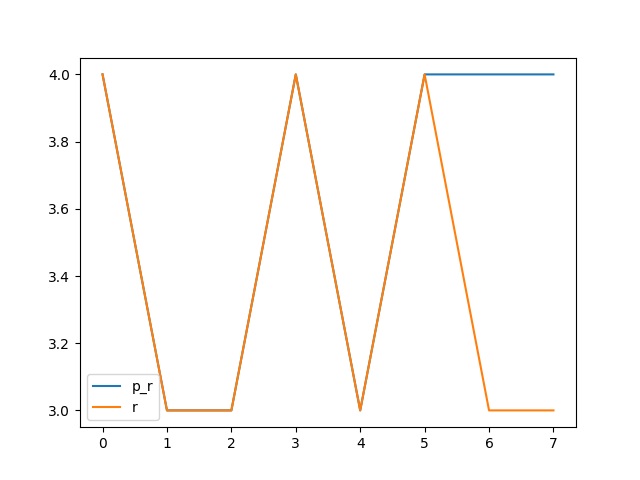
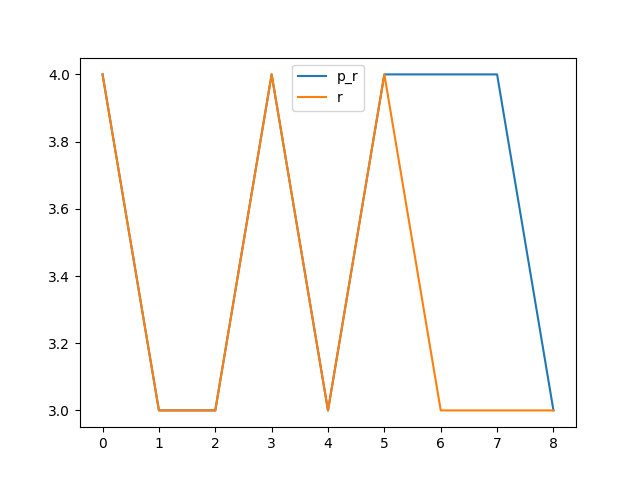
0x0008

diff --git a/benchmark.md b/benchmark.md
@@ -14,16 +14,18 @@ Synthesising 0x0006 pexact:208 r=4 exact:224 r=3
 
 Synthesising 0x0007 pexact:182 r=4 exact:192 r=3
 
+Synthesising 0x0008 pexact:152 r=3 exact:192 r=3
+
 ```mermaid
 xychart-beta
     title "Comparison powertwoexact twoexact"
-    x-axis [0, 1, 2, 3, 4, 5, 6, 7]
+    x-axis [0, 1, 2, 3, 4, 5, 6, 7, 8]
     y-axis "Switching Activity" 0-->352
-    line [96, 152, 152, 182, 152, 182, 208, 182]
-    line [192, 152, 152, 312, 152, 352, 224, 192]
-    line [163.25, 163.25, 163.25, 163.25, 163.25, 163.25, 163.25, 163.25]
-    line [216.0, 216.0, 216.0, 216.0, 216.0, 216.0, 216.0, 216.0]
-    bar [4, 3, 3, 4, 3, 4, 4, 4, 4, 3, 3, 4, 3, 4, 4, 4, 4, 3, 3, 4, 3, 4, 4, 4, 4, 3, 3, 4, 3, 4, 4, 4, 4, 3, 3, 4, 3, 4, 4, 4, 4, 3, 3, 4, 3, 4, 4, 4, 4, 3, 3, 4, 3, 4, 4, 4, 4, 3, 3, 4, 3, 4, 4, 4, 4, 3, 3, 4, 3, 4, 4, 4, 4, 3, 3, 4, 3, 4, 4, 4, 4, 3, 3, 4, 3, 4, 4, 4, 4, 3, 3, 4, 3, 4, 4, 4, 4, 3, 3, 4, 3, 4, 4, 4, 4, 3, 3, 4, 3, 4, 4, 4, 4, 3, 3, 4, 3, 4, 4, 4, 4, 3, 3, 4, 3, 4, 4, 4, 4, 3, 3, 4, 3, 4, 4, 4, 4, 3, 3, 4, 3, 4, 4, 4, 4, 3, 3, 4, 3, 4, 4, 4, 4, 3, 3, 4, 3, 4, 4, 4]
-    bar [4, 3, 3, 4, 3, 4, 3, 3, 4, 3, 3, 4, 3, 4, 3, 3, 4, 3, 3, 4, 3, 4, 3, 3, 4, 3, 3, 4, 3, 4, 3, 3, 4, 3, 3, 4, 3, 4, 3, 3, 4, 3, 3, 4, 3, 4, 3, 3, 4, 3, 3, 4, 3, 4, 3, 3, 4, 3, 3, 4, 3, 4, 3, 3, 4, 3, 3, 4, 3, 4, 3, 3, 4, 3, 3, 4, 3, 4, 3, 3, 4, 3, 3, 4, 3, 4, 3, 3, 4, 3, 3, 4, 3, 4, 3, 3, 4, 3, 3, 4, 3, 4, 3, 3, 4, 3, 3, 4, 3, 4, 3, 3, 4, 3, 3, 4, 3, 4, 3, 3, 4, 3, 3, 4, 3, 4, 3, 3, 4, 3, 3, 4, 3, 4, 3, 3, 4, 3, 3, 4, 3, 4, 3, 3, 4, 3, 3, 4, 3, 4, 3, 3, 4, 3, 3, 4, 3, 4, 3, 3]
+    line [96, 152, 152, 182, 152, 182, 208, 182, 152]
+    line [192, 152, 152, 312, 152, 352, 224, 192, 192]
+    line [162.0, 162.0, 162.0, 162.0, 162.0, 162.0, 162.0, 162.0, 162.0]
+    line [213.33333333333334, 213.33333333333334, 213.33333333333334, 213.33333333333334, 213.33333333333334, 213.33333333333334, 213.33333333333334, 213.33333333333334, 213.33333333333334]
+    bar [4, 3, 3, 4, 3, 4, 4, 4, 3, 4, 3, 3, 4, 3, 4, 4, 4, 3, 4, 3, 3, 4, 3, 4, 4, 4, 3, 4, 3, 3, 4, 3, 4, 4, 4, 3, 4, 3, 3, 4, 3, 4, 4, 4, 3, 4, 3, 3, 4, 3, 4, 4, 4, 3, 4, 3, 3, 4, 3, 4, 4, 4, 3, 4, 3, 3, 4, 3, 4, 4, 4, 3, 4, 3, 3, 4, 3, 4, 4, 4, 3, 4, 3, 3, 4, 3, 4, 4, 4, 3, 4, 3, 3, 4, 3, 4, 4, 4, 3, 4, 3, 3, 4, 3, 4, 4, 4, 3, 4, 3, 3, 4, 3, 4, 4, 4, 3, 4, 3, 3, 4, 3, 4, 4, 4, 3, 4, 3, 3, 4, 3, 4, 4, 4, 3, 4, 3, 3, 4, 3, 4, 4, 4, 3, 4, 3, 3, 4, 3, 4, 4, 4, 3, 4, 3, 3, 4, 3, 4, 4, 4, 3, 4, 3, 3, 4, 3, 4, 4, 4, 3, 4, 3, 3, 4, 3, 4, 4, 4, 3]
+    bar [4, 3, 3, 4, 3, 4, 3, 3, 3, 4, 3, 3, 4, 3, 4, 3, 3, 3, 4, 3, 3, 4, 3, 4, 3, 3, 3, 4, 3, 3, 4, 3, 4, 3, 3, 3, 4, 3, 3, 4, 3, 4, 3, 3, 3, 4, 3, 3, 4, 3, 4, 3, 3, 3, 4, 3, 3, 4, 3, 4, 3, 3, 3, 4, 3, 3, 4, 3, 4, 3, 3, 3, 4, 3, 3, 4, 3, 4, 3, 3, 3, 4, 3, 3, 4, 3, 4, 3, 3, 3, 4, 3, 3, 4, 3, 4, 3, 3, 3, 4, 3, 3, 4, 3, 4, 3, 3, 3, 4, 3, 3, 4, 3, 4, 3, 3, 3, 4, 3, 3, 4, 3, 4, 3, 3, 3, 4, 3, 3, 4, 3, 4, 3, 3, 3, 4, 3, 3, 4, 3, 4, 3, 3, 3, 4, 3, 3, 4, 3, 4, 3, 3, 3, 4, 3, 3, 4, 3, 4, 3, 3, 3, 4, 3, 3, 4, 3, 4, 3, 3, 3, 4, 3, 3, 4, 3, 4, 3, 3, 3]
 ```
 
